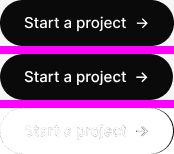
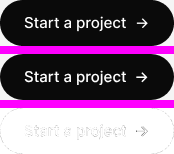
ds-v2: fixed Button widths as in Figma, plain-text nav/footer links, record decisions
Claude-Session: https://claude.ai/code/session_01UZWQSjEKanFo1QxbReCzzo

diff --git a/components/ds/Footer.tsx b/components/ds/Footer.tsx
@@ -1,13 +1,13 @@
-import Link from "next/link";
 import { cn } from "@/lib/cn";
 
-type FooterLink = { label: string; href?: string };
+/** Links are not clickable in iteration 1 (decision 2026-11-13). */
+type FooterLink = { label: string };
 
 const columns: Array<{ title: string; links: FooterLink[] }> = [
   { title: "Social", links: [{ label: "Instagram" }, { label: "LinkedIn" }, { label: "Behance" }, { label: "Clutch" }] },
   {
     title: "Studio",
-    links: [{ label: "Work", href: "/work" }, { label: "Services" }, { label: "AI Lab" }, { label: "Journal" }],
+    links: [{ label: "Work" }, { label: "Services" }, { label: "AI Lab" }, { label: "Journal" }],
   },
   { title: "Contact", links: [{ label: "hello@[domain]" }, { label: "Europe / US" }] },
 ];
@@ -20,17 +20,10 @@ export function Footer({ className }: { className?: string }) {
         {columns.map((col) => (
           <div key={col.title} className="flex min-w-0 flex-1 flex-col items-start gap-10">
             <p className="text-text-secondary mono-label">{col.title}</p>
-            {col.links.map((l) =>
-              l.href ? (
-                <Link key={l.label} href={l.href} className="text-text-primary body-base">
-                  {l.label}
-                </Link>
-              ) : (
-                <p key={l.label} className="text-text-primary body-base">
+            {col.links.map((l) => (<p key={l.label} className="text-text-primary body-base">
                   {l.label}
                 </p>
-              ),
-            )}
+            ))}
           </div>
         ))}
       </div>

diff --git a/components/ds/Nav.tsx b/components/ds/Nav.tsx
@@ -1,29 +1,20 @@
-import Link from "next/link";
 import { cn } from "@/lib/cn";
 
-const links = [
-  { label: "Work", href: "/work" },
-  { label: "Services", href: "#" },
-  { label: "Awards", href: "#" },
-  { label: "Contact", href: "#" },
-];
+/** Links are not clickable in iteration 1 (decision 2026-11-13). */
+const links = ["Work", "Services", "Awards", "Contact"];
 
 /**
- * Figma: Nav (260:10) — px 40, py 30 (gap → 28), space-between.
- * Wordmark: Inter Semi Bold 20 / -3% has no text style → Heading/H6 + semibold (see ds-gaps).
+ * Figma: Nav (260:10) — px 40, py 30 (no token → space/28), space-between.
+ * Wordmark: Inter Semi Bold 20 / -3% has no text style → Heading/H6 + semibold (approved, see ds-gaps).
  */
 export function Nav({ className }: { className?: string }) {
   return (
     <header className={cn("flex w-full items-center justify-between px-40 py-28 text-text-primary", className)}>
-      <Link href="/" className="whitespace-nowrap heading-h6 font-semibold">
-        Bocharov®Bureau
-      </Link>
+      <p className="whitespace-nowrap heading-h6 font-semibold">Bocharov®Bureau</p>
       <nav aria-label="Primary">
         <ul className="flex items-start gap-32 label-m">
           {links.map((l) => (
-            <li key={l.label}>
-              <Link href={l.href}>{l.label}</Link>
-            </li>
+            <li key={l}>{l}</li>
           ))}
         </ul>
       </nav>

diff --git a/components/ds/Button.tsx b/components/ds/Button.tsx
@@ -15,15 +15,16 @@ export type ButtonProps = {
   className?: string;
 };
 
-const base = "inline-flex shrink-0 items-start whitespace-nowrap rounded-full";
+/** Fixed width as in Figma (FIXED sizing on each variant); content is left-aligned and clipped. */
+const base = "inline-flex shrink-0 items-start overflow-hidden whitespace-nowrap rounded-full";
 
 const variants: Record<ButtonStyle, string> = {
   // 260:75 — bg/inverse, px 24 py 14, gap 8, Label/M
-  Primary: "gap-8 bg-bg-inverse px-24 py-14 text-text-inverse label-m",
+  Primary: "w-button-primary gap-8 bg-bg-inverse px-24 py-14 text-text-inverse label-m",
   // 260:78 — 1px border/inverse, px 24 py 14, Label/M
-  Secondary: "border border-border-inverse px-24 py-14 text-text-primary label-m",
+  Secondary: "w-button-secondary border border-border-inverse px-24 py-14 text-text-primary label-m",
   // 260:82 — 1px border/inverse, px 22 (no token → space/20) py 12, gap 8, Label/S
-  Link: "gap-8 border border-border-inverse px-20 py-12 text-text-primary label-s",
+  Link: "w-button-link gap-8 border border-border-inverse px-20 py-12 text-text-primary label-s",
 };
 
 export function Button({ label = "Start a project", variant = "Primary", arrow = true, href, className }: ButtonProps) {

diff --git a/styles/layout.css b/styles/layout.css
@@ -15,6 +15,11 @@
   --container-index-industry: 220px;
   --container-index-arrow: 40px;
 
+  /* Button widths — Figma main components are FIXED width (260:75 / 260:78 / 260:82) */
+  --container-button-primary: 174px;
+  --container-button-secondary: 184px;
+  --container-button-link: 157px;
+
   /* Case card photo frame 674 × 760 (260:59) */
   --aspect-case-card: 674 / 760;
 }

diff --git a/docs/ds-gaps.md b/docs/ds-gaps.md
@@ -30,12 +30,13 @@ would break the layout (column widths), the value is kept in **one** file,
 | `w-intro-label` | 560 | Section intro label column (component description says "Label column (560)") |
 | `w-index-year` / `-client` / `-industry` / `-arrow` | 90 / 360 / 220 / 40 | Index row columns |
 | `aspect-case-card` | 674 / 760 | Case card photo frame |
+| `w-button-primary` / `-secondary` / `-link` | 174 / 184 / 157 | Button variants (FIXED width) |
 
 ## Component sizing in Figma that is not hug
 
 | Component | Figma | Code |
 |---|---|---|
-| Button · Primary / Secondary / Link | Width **FIXED** 174 / 184 / 157 (labels are hug inside) | Hug content. Secondary at 184 only matches the CTA label "Book a 30-min call"; with the default label Figma leaves 32px empty on the right. Link at 157 squeezes its right padding to 16. |
+| Button · Primary / Secondary / Link | Width **FIXED** 174 / 184 / 157 (labels are hug inside) | **As Figma** (decision 2026-11-13): fixed `w-button-primary/-secondary/-link`, content left-aligned, overflow clipped. |
 | Meta item | Width FIXED 176 | `w-full`, width comes from the parent grid |
 
 ## Font rendering
@@ -46,3 +47,11 @@ would break the layout (column widths), the value is kept in **one** file,
   IBM Plex Mono comes from `next/font/google` (widths match).
 * Figma rounds each line box to whole px. Text styles therefore store
   `line-height` as `round(size × factor)` px (AUTO = Inter 1.21, Plex Mono 1.3).
+
+## Decisions (2026-11-13)
+
+1. Layout sizes stay in `styles/layout.css` (named theme values, not Figma tokens) — the developer's call.
+2. Spacing substitutions above (30→28, 7→6, 22→20) stay — the developer's call.
+3. Buttons keep Figma's fixed widths.
+4. Nav / Footer links are plain text for now (not clickable).
+5. Nav wordmark stays `Heading/H6` + semibold.
